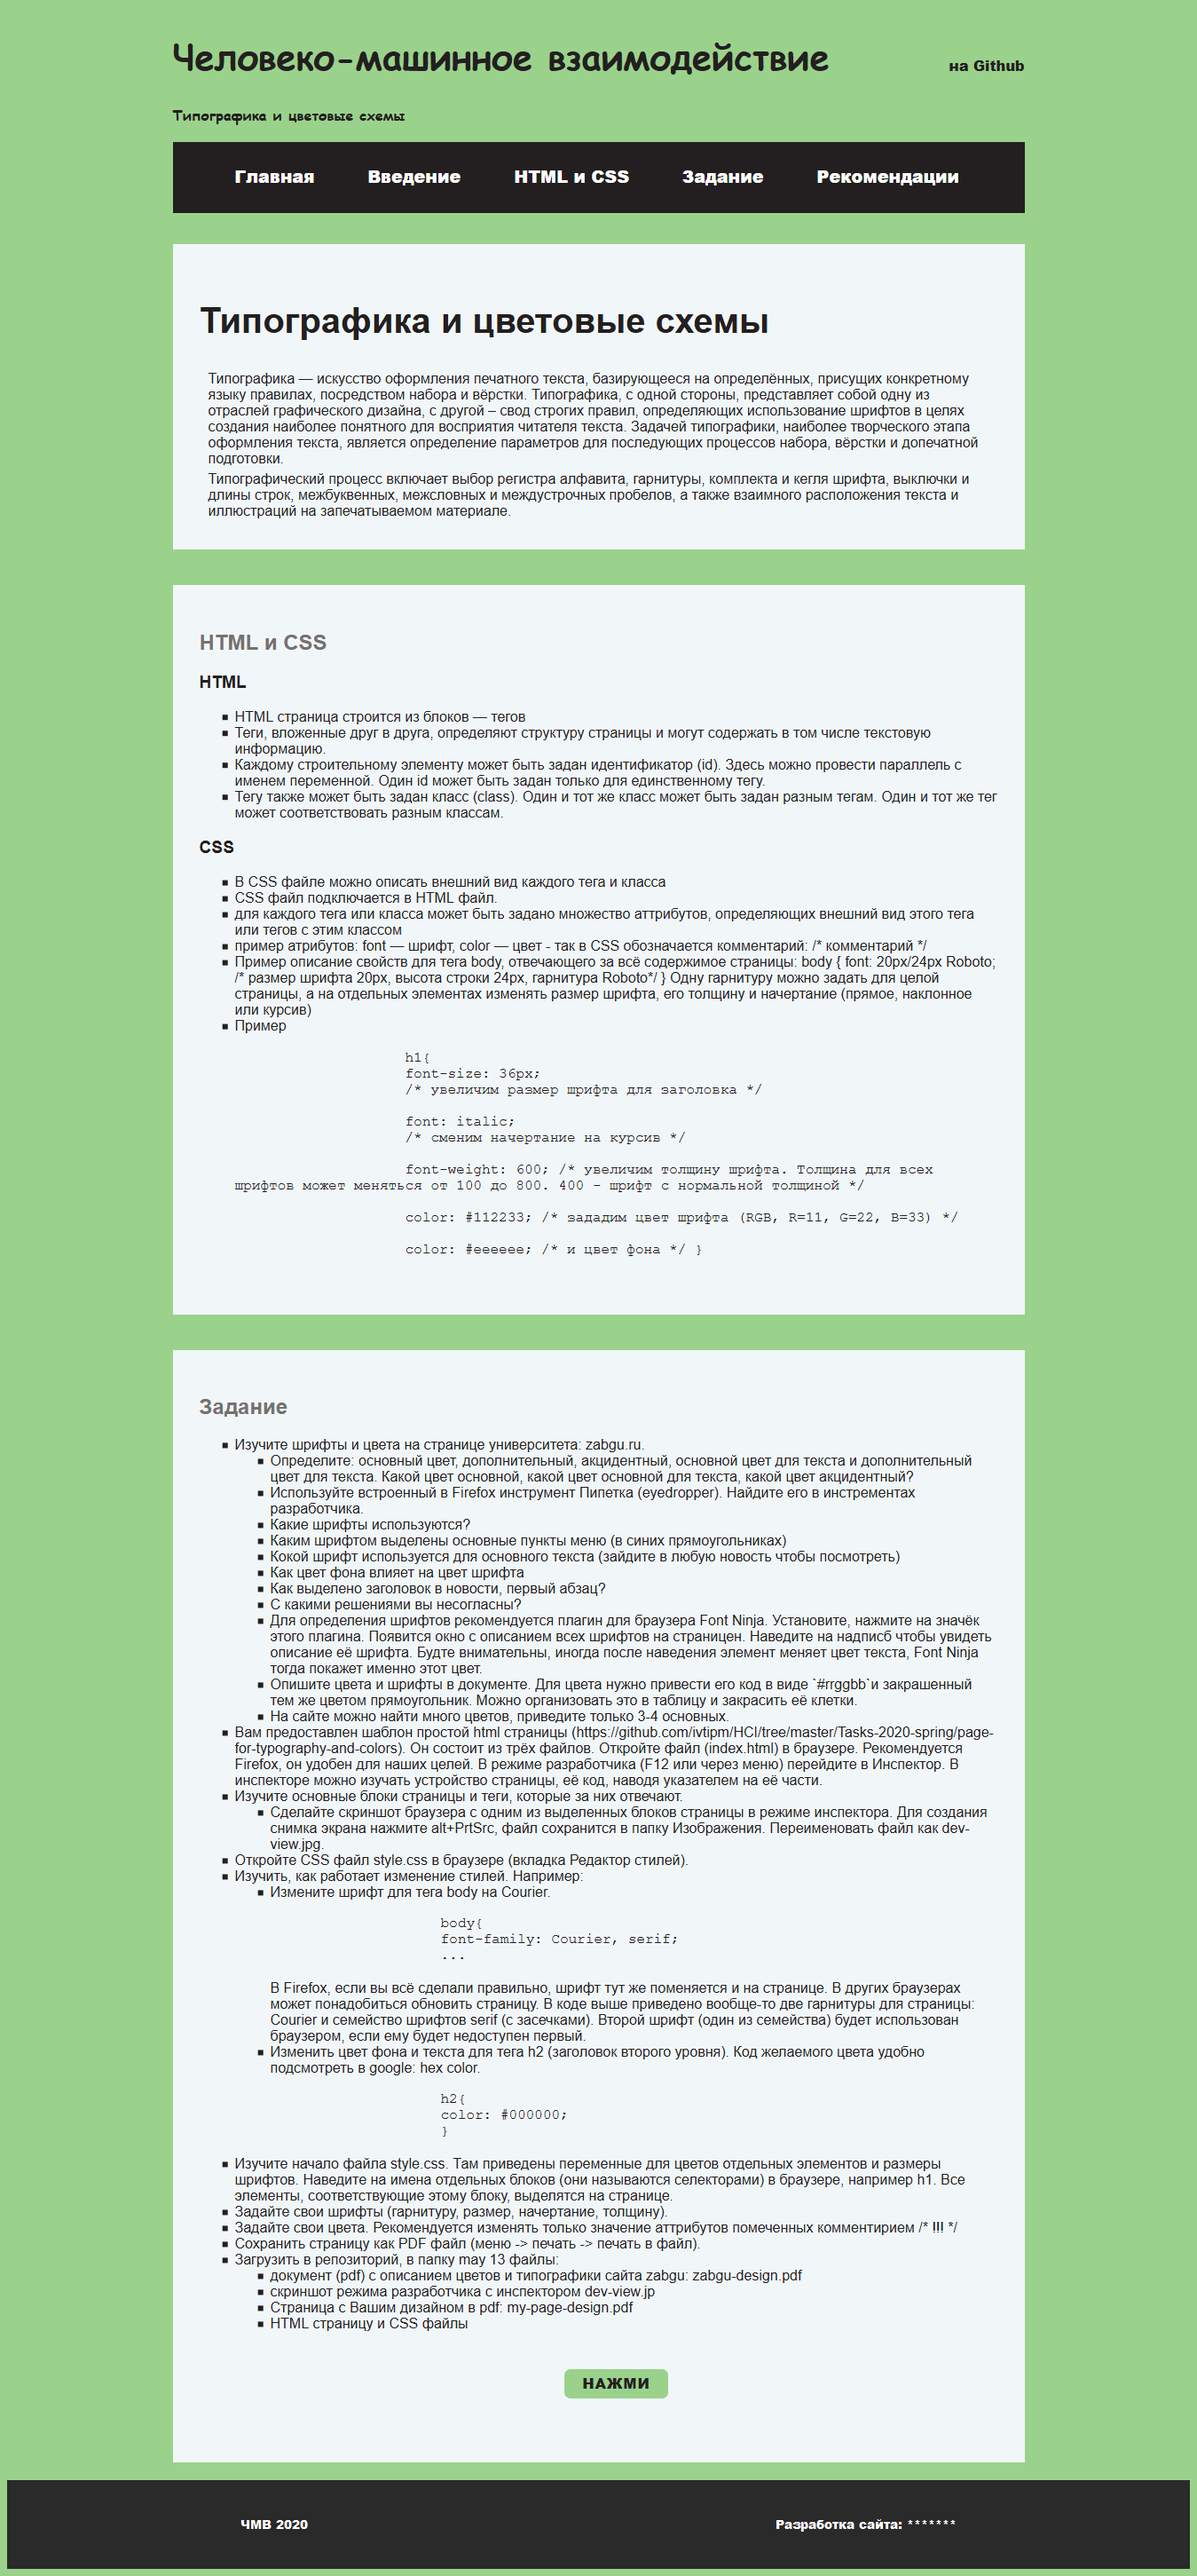
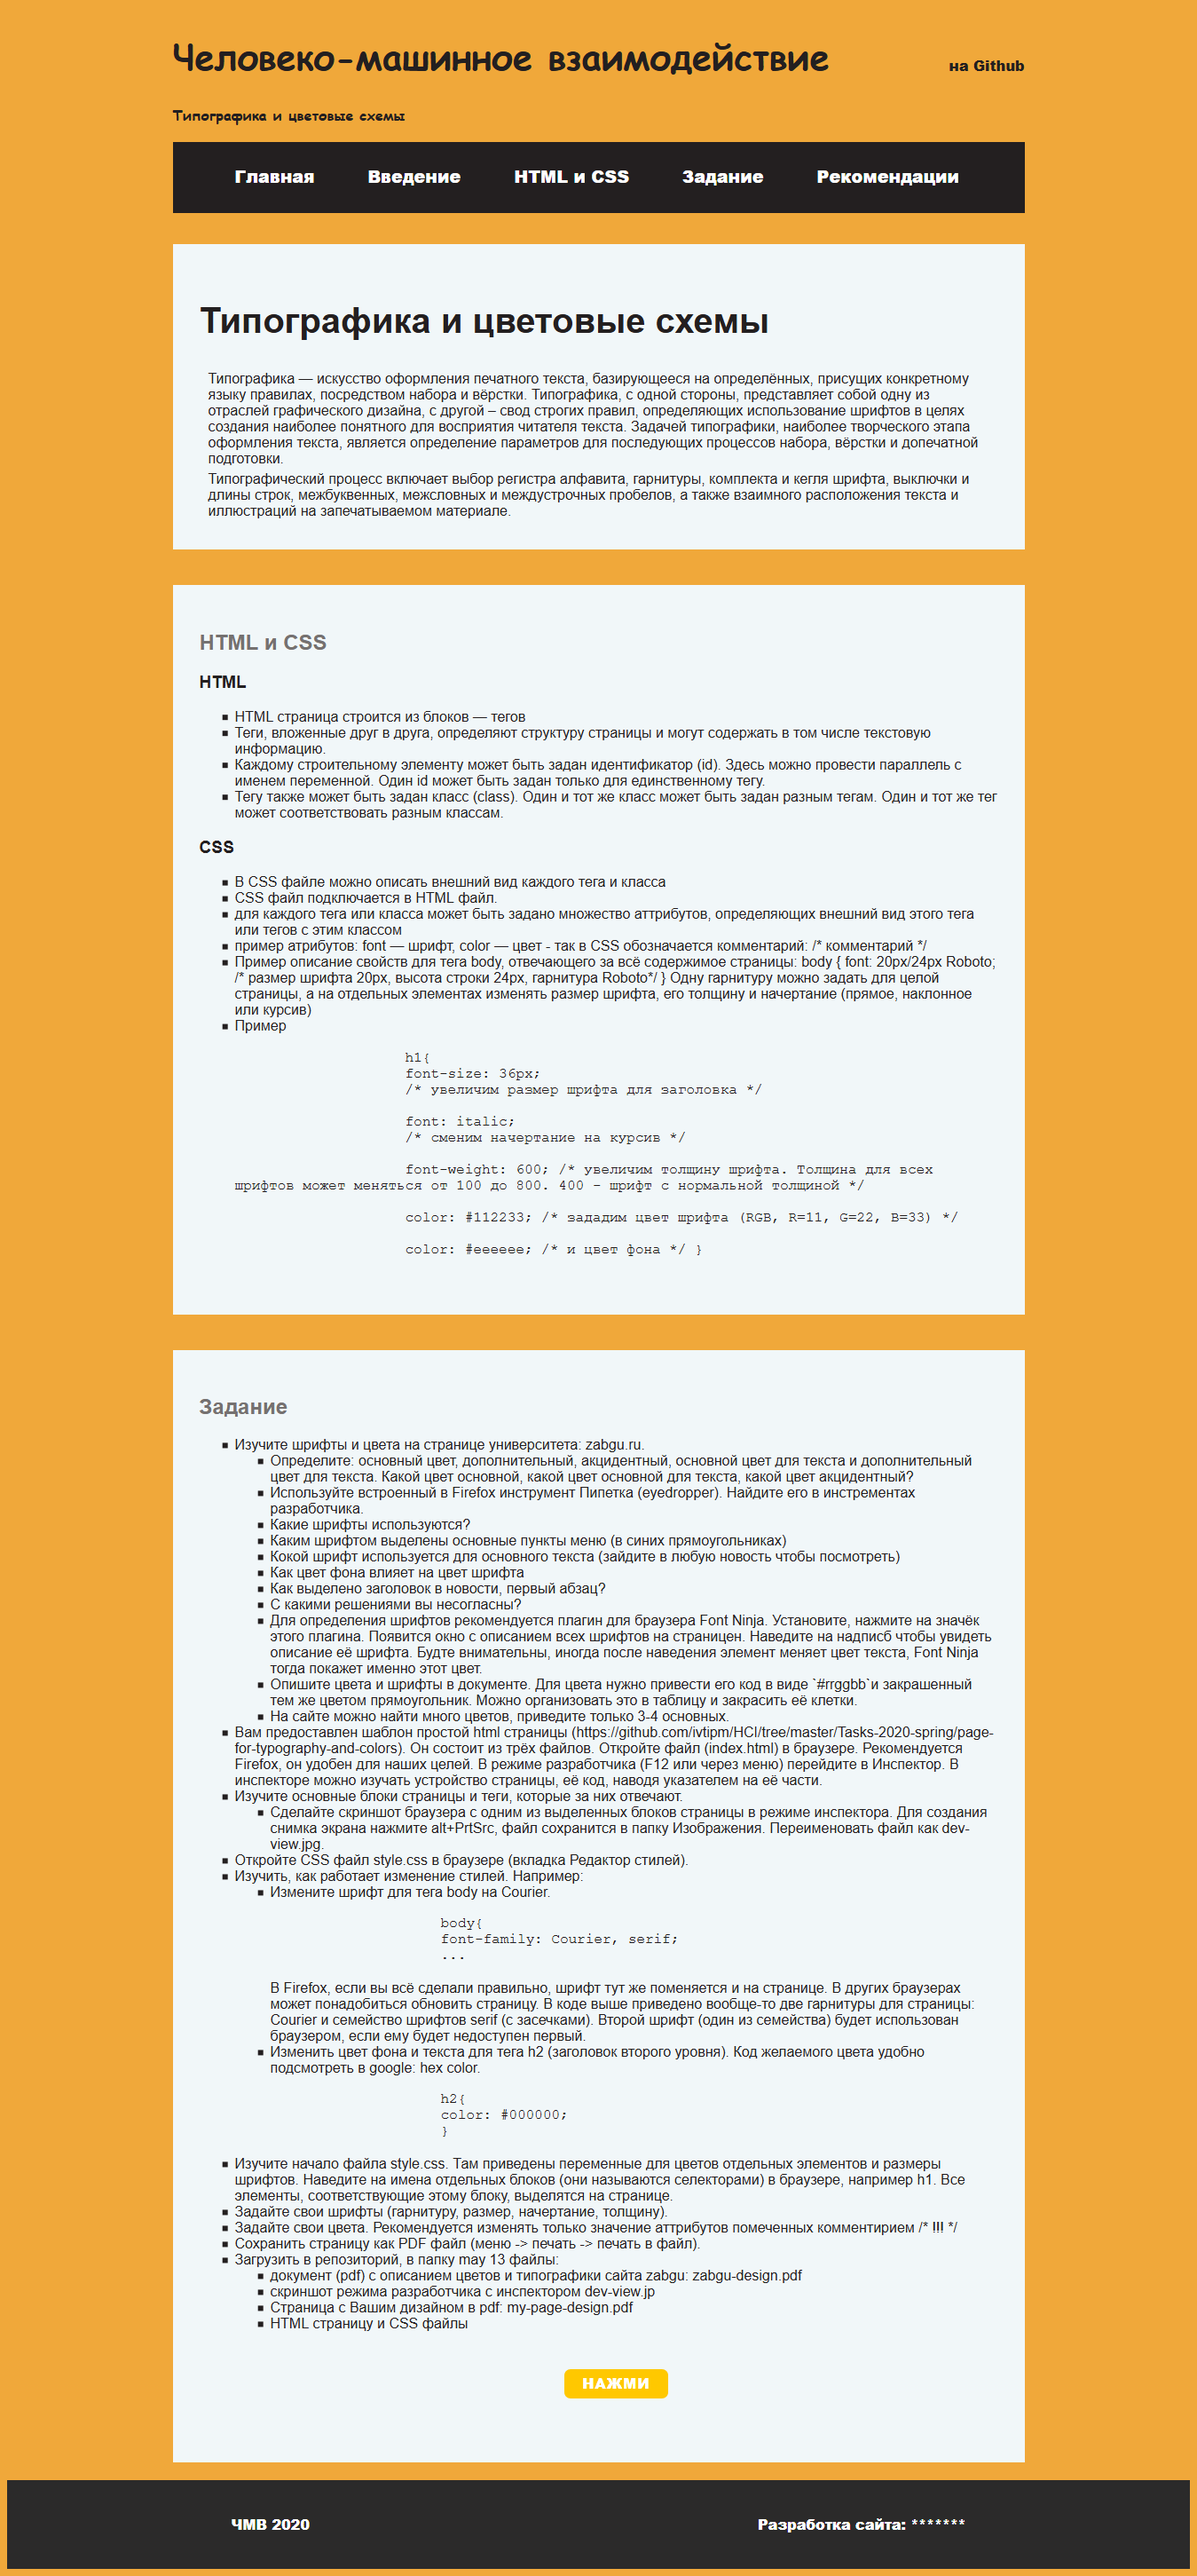
Добавил цели персонажам

diff --git a/13_may/HTML страница и CSS файлы_files/HTML страница и CSS файлы_files/style.css b/13_may/HTML страница и CSS файлы_files/HTML страница и CSS файлы_files/style.css
@@ -19,11 +19,11 @@
 /* дополнительный цвет !!! */
   --secondary: #f1f7f9;
 /* долполнительный цвет. светлый вариант !!! */
-  --secondary-light: #9ad28b;
+  --secondary-light: #f0a83a;
   
 /*   Акцидентный цвет и цвет шрифта на его фоне */
-  --accent: #9ad28b ;
-  --accent-text: #231f20;
+  --accent: #ffc800 ;
+  --accent-text: #ffffff;
   
   --accent2:#231f20 ;  /* используется только для подсветки кнопки акцидентного цвета при наведении */
   --accent2-text: #f1f7f9;
